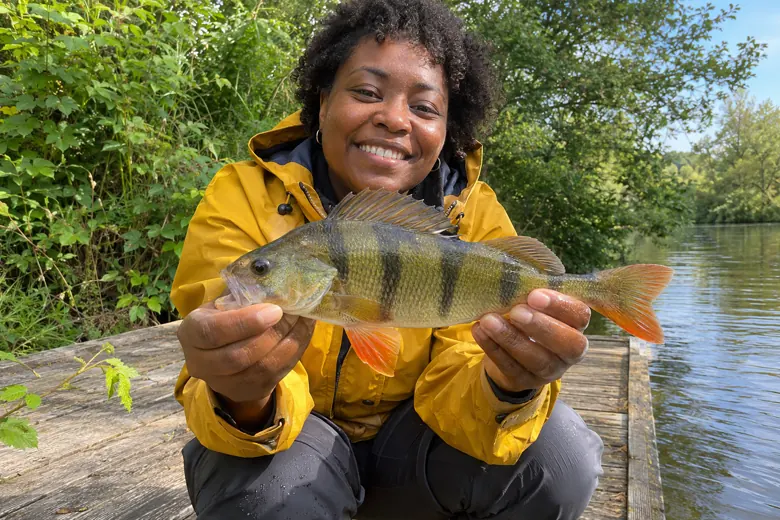
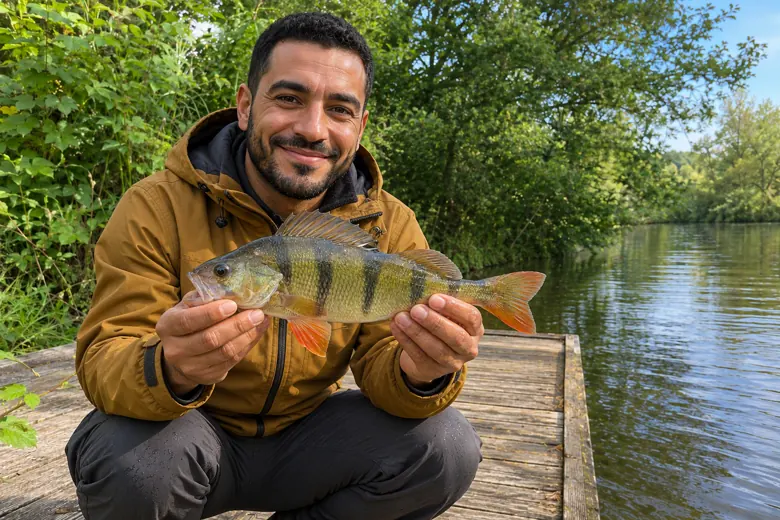
Remplacer la photo de la perche sur le ponton

diff --git a/src/premium/CatchBookPreview.tsx b/src/premium/CatchBookPreview.tsx
@@ -12,7 +12,7 @@ const photos = [
   {
     id: "perche",
     label: "Perche",
-    alt: "Une pêcheuse en veste ocre présente une perche sur un ponton.",
+    alt: "Un pêcheur présente une perche sur un ponton, avec la rivière à droite.",
   },
   {
     id: "brochet",
